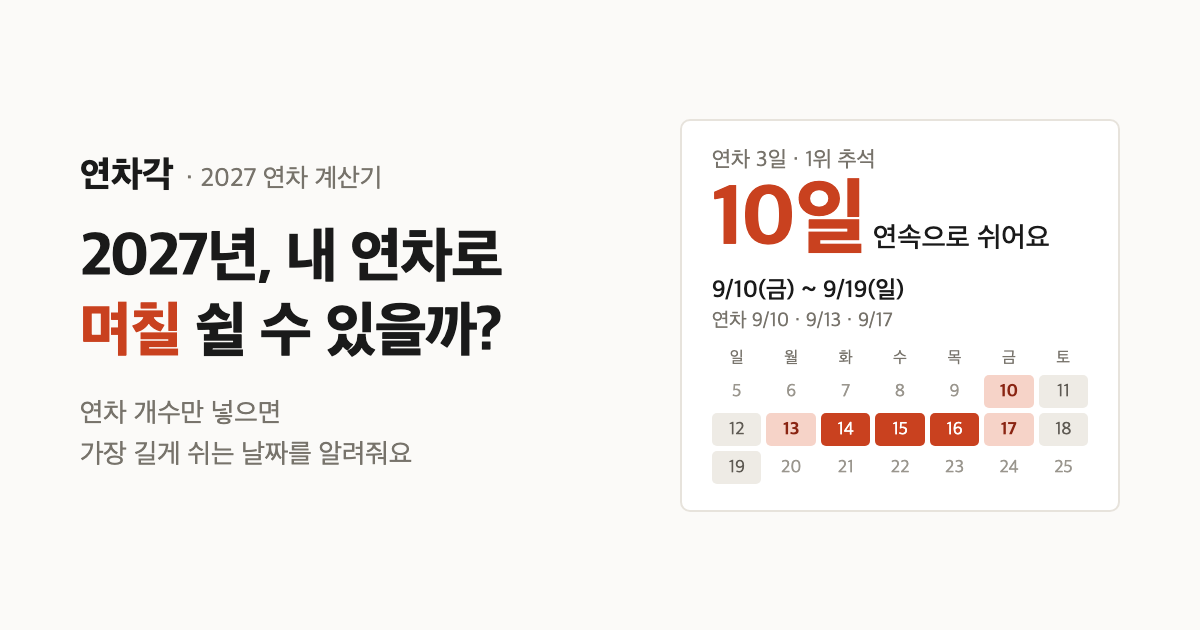
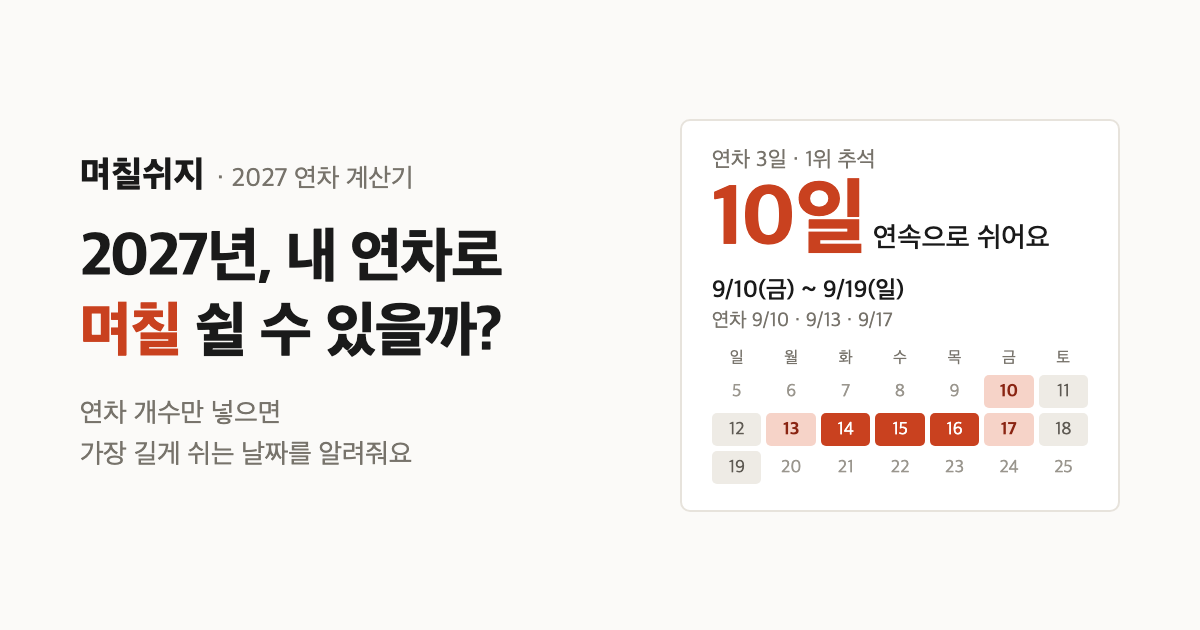
[CHORE] 서비스 이름 연차각 → 며칠쉬지 변경 (#7)
- 같은 이름("연차각")의 연차 계산 서비스가 이미 있어 공개 전에 이름 변경
- 제목·설명·OG·manifest·화면 제목을 며칠쉬지로 교체, 검색어(2027 빨간날·공휴일·추석 연휴)를 설명 앞쪽에 배치
- 기준 주소 myeochil.vercel.app, 의견 저장 site 값 myeochil
- OG 이미지 브랜드 글자, 파비콘 글자("연" → "쉬") 다시 생성

Changed region(s): [[0.0617, 0.2413, 0.3392, 0.3016]]

diff --git a/src/app/layout.tsx b/src/app/layout.tsx
@@ -3,17 +3,17 @@ import SiteAnalytics from "@/components/SiteAnalytics";
 import "./globals.css";
 import { SITE_URL } from "@/lib/site";
 
-const TITLE = "연차각 — 2027 연차 계산기 | 황금연휴 연차 붙여쓰기";
+const TITLE = "며칠쉬지 — 2027 연차 계산기 | 빨간날·황금연휴 연차 붙여쓰기";
 const DESCRIPTION =
-  "2027 연차 계산기 연차각. 쓸 수 있는 연차 개수만 넣으면 2027년 연휴에 연차를 붙여 가장 길게 쉬는 날짜 조합을 알려줘요. 설·추석·황금연휴 연차 붙여쓰기.";
+  "2027 빨간날·공휴일 기준 연차 계산기 며칠쉬지. 연차 개수만 넣으면 설·추석·5월 황금연휴에 연차를 붙여 가장 길게 쉬는 날짜를 알려줘요. 대체공휴일 반영, 월별로도 볼 수 있어요.";
 
 export const metadata: Metadata = {
   // 미리보기 이미지(app/opengraph-image.png) 등을 절대 주소로 만들 기준
   metadataBase: new URL(SITE_URL),
   title: TITLE,
   description: DESCRIPTION,
-  applicationName: "연차각",
-  keywords: ["연차 계산기", "2027 연휴", "2027 황금연휴", "연차 붙여쓰기", "연차 언제 쓰지", "2027 공휴일"],
+  applicationName: "며칠쉬지",
+  keywords: ["2027 빨간날", "2027 공휴일", "2027 연휴", "2027 황금연휴", "2027 추석 연휴", "연차 붙여쓰기", "연차 계산기"],
   // 검색엔진에 대표 주소 알림 — ?from=instagram 같은 주소가 따로 수집되지 않게
   alternates: { canonical: "/" },
   // 네이버 서치어드바이저 소유 확인 (HTML 태그 방식)
@@ -21,9 +21,9 @@ export const metadata: Metadata = {
   openGraph: {
     type: "website",
     url: "/",
-    siteName: "연차각",
+    siteName: "며칠쉬지",
     locale: "ko_KR",
-    title: "2027년, 내 연차로 며칠 쉴 수 있을까? — 연차각",
+    title: "2027년, 내 연차로 며칠 쉴 수 있을까? — 며칠쉬지",
     description: "연차 개수만 넣으면 가장 길게 쉬는 날짜를 계산해 줘요. 2027 연차 계산기.",
   },
   twitter: { card: "summary_large_image" },

diff --git a/src/app/page.tsx b/src/app/page.tsx
@@ -15,7 +15,7 @@ export default function Home(): React.ReactNode {
         intro={
           <header className="relative">
             <h1 className="pr-24 text-[22px] font-bold lg:pr-0">
-              연차각 <span className="ml-1 text-[14px] font-normal text-sub">2027 연차 계산기</span>
+              며칠쉬지 <span className="ml-1 text-[14px] font-normal text-sub">2027 연차 계산기</span>
             </h1>
             <p className="mt-1 text-[14px] text-sub">내 연차로 2027년에 가장 길게 쉬는 날짜를 찾아 줘요.</p>
             {/* 모바일만: 오른쪽 위 의견 보내기 (PC는 결과 맨 아래) */}

diff --git a/src/app/manifest.ts b/src/app/manifest.ts
@@ -4,8 +4,8 @@ import type { MetadataRoute } from "next";
 // 서비스 워커(오프라인)는 이번 범위 아님. 아이폰은 app/apple-icon.png 를 쓴다.
 export default function manifest(): MetadataRoute.Manifest {
   return {
-    name: "연차각 — 2027 연차 계산기",
-    short_name: "연차각",
+    name: "며칠쉬지 — 2027 연차 계산기",
+    short_name: "며칠쉬지",
     description: "연차 개수만 넣으면 2027년에 가장 길게 쉬는 날짜를 알려줘요.",
     lang: "ko",
     start_url: "/",

diff --git a/src/lib/feedbackSource.test.ts b/src/lib/feedbackSource.test.ts
@@ -1,7 +1,7 @@
 import { describe, expect, it } from "vitest";
 import { detectFeedbackSource, toFeedbackSource } from "./feedbackSource";
 
-const base = "https://yeonchagak.vercel.app/";
+const base = "https://myeochil.vercel.app/";
 
 function detect(url: string, referrer = "", standalone = false): string {
   return detectFeedbackSource({ url, referrer, standalone });

diff --git a/src/lib/feedback.ts b/src/lib/feedback.ts
@@ -9,7 +9,7 @@ import type { FeedbackSource } from "./feedbackSource";
  * ⚠ 이 앱의 유일한 서버 저장. 입력한 연차 개수·고른 달은 보내지 않고, 의견 칸에 직접 쓴 글·연락처만.
  */
 
-export const SITE_ID = "yeonchagak";
+export const SITE_ID = "myeochil";
 export const MAX_MESSAGE = 1000;
 export const MAX_CONTACT = 100;
 

diff --git a/src/lib/site.ts b/src/lib/site.ts
@@ -1,2 +1,2 @@
 // 사이트 기본 정보 — 메타데이터·robots·sitemap 공용
-export const SITE_URL = "https://yeonchagak.vercel.app";
+export const SITE_URL = "https://myeochil.vercel.app";
